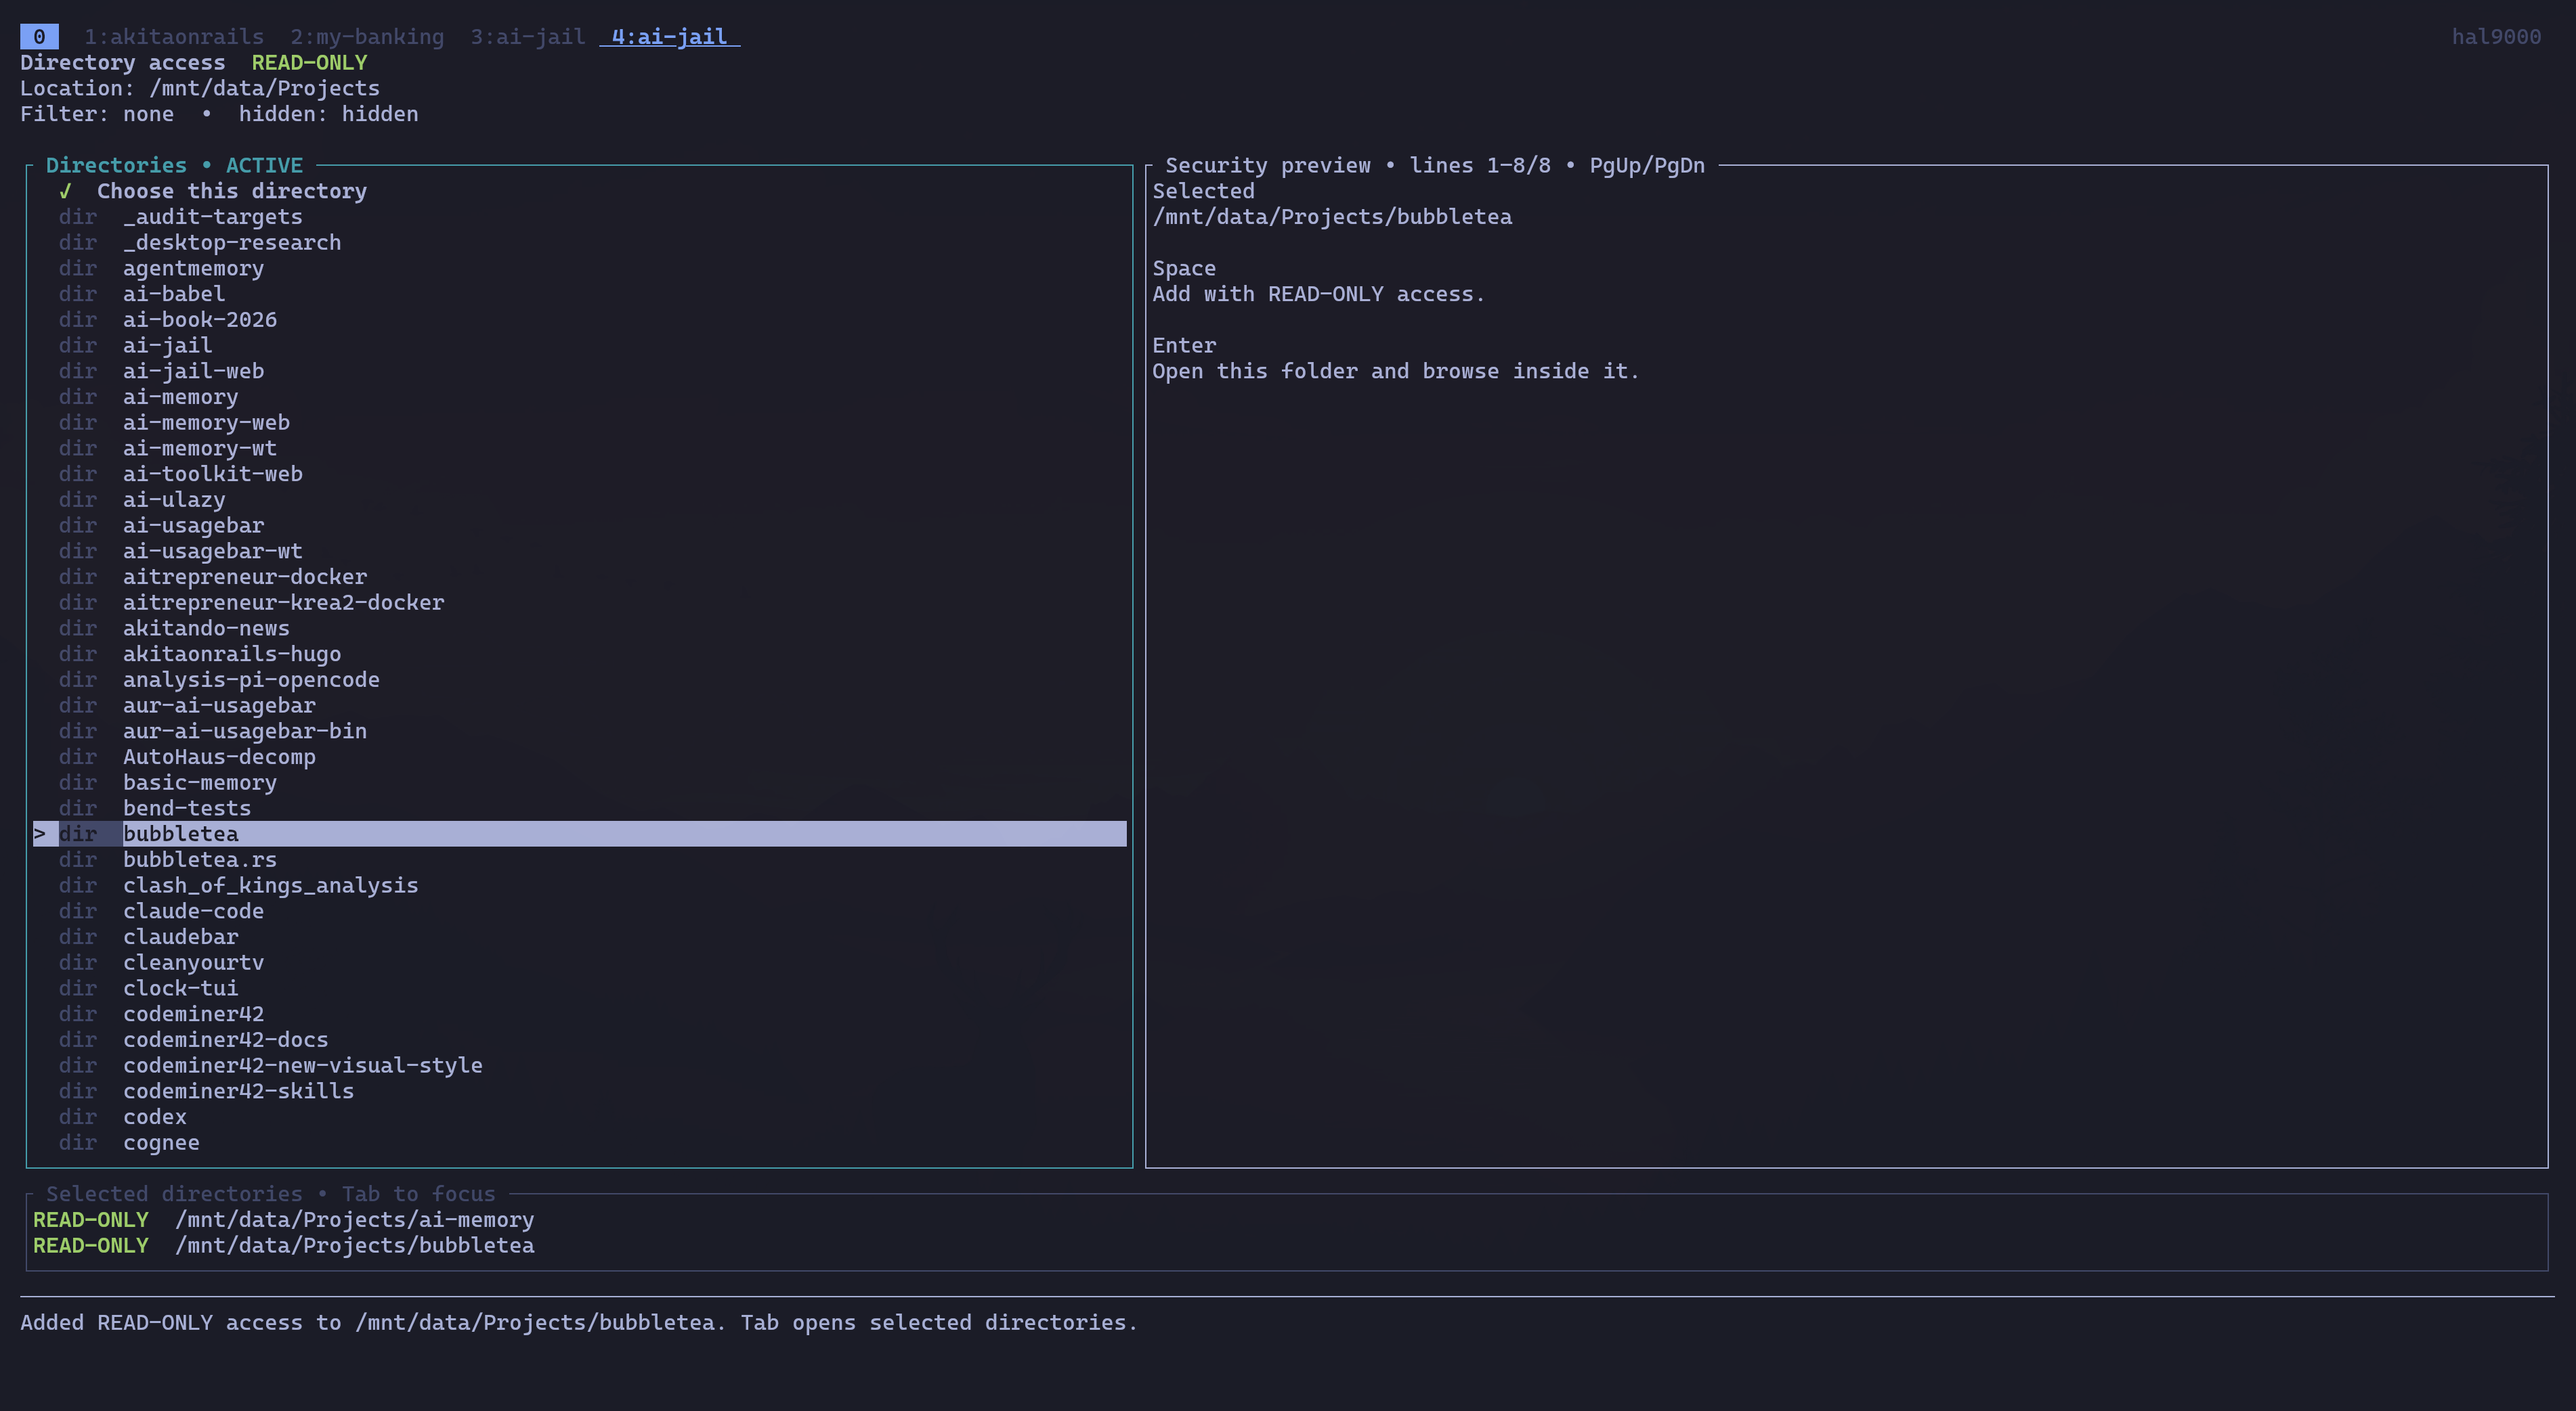
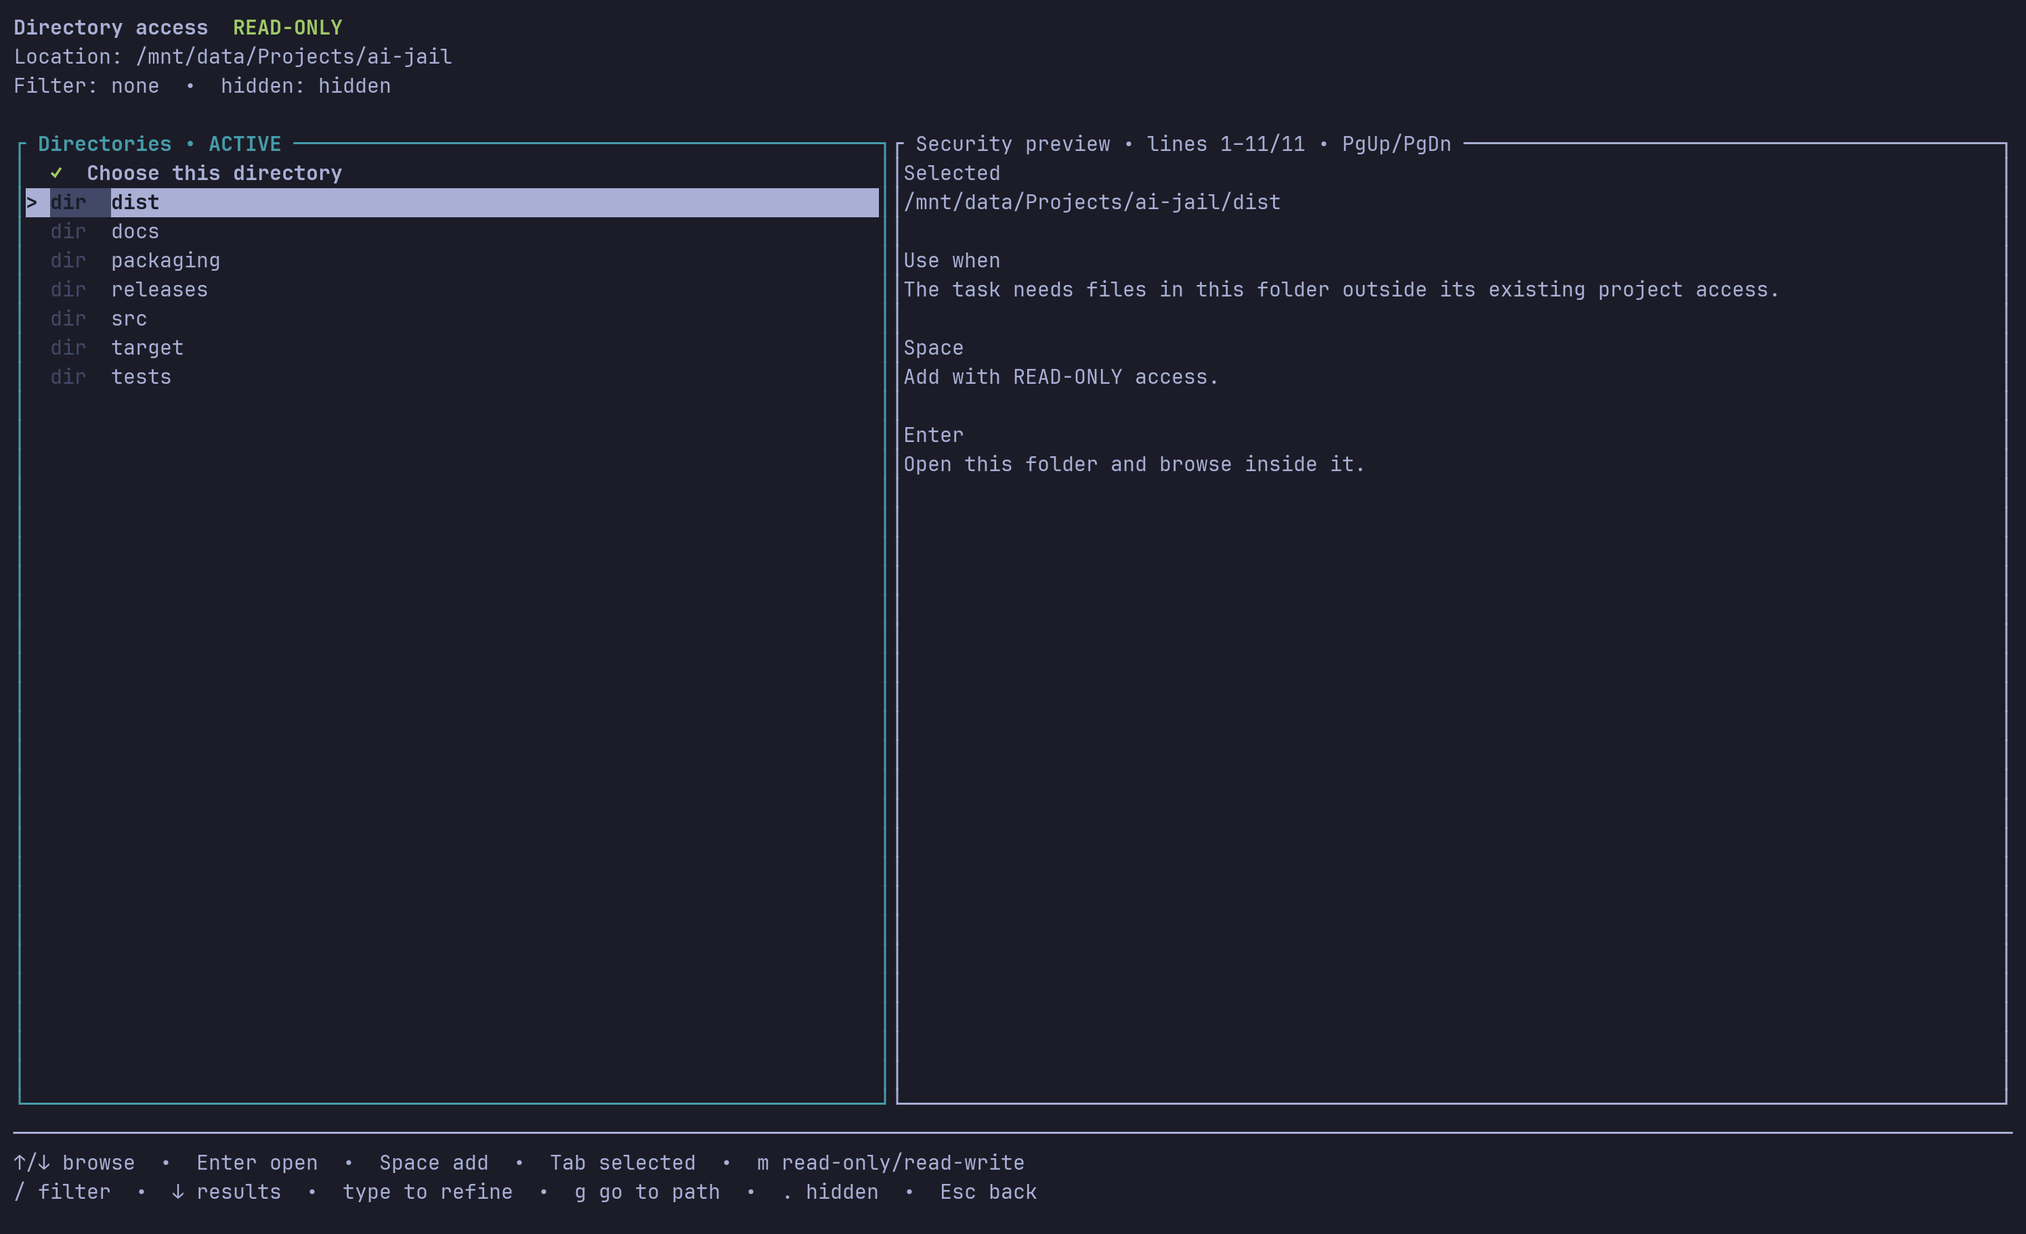
docs(readme): regenerate onboarding screenshots for the save-from-overview flow
Captured from the built binary at 164x42 in a private HOME/XDG and rendered
offline, so the images show the real UI without depending on a terminal theme.
The environment shot uses synthetic variable names: the selector never reads or
shows a value, and a screenshot must not leak this machine's environment.

diff --git a/releases/v3.2.0.md b/releases/v3.2.0.md
@@ -41,7 +41,9 @@ unchanged.
   process working directory now hold the crate-wide env lock.
 - `docs/TUI_DESIGN.md` records why a one-off unsaved launch is fallback-only,
   and the security model, user guide, and CLI/TUI parity inventory match the
-  new flow.
+  new flow. The README screenshots were regenerated from the current UI, so
+  the overview, environment selector, and directory browser show what a first
+  run actually draws.
 
 See the [onboarding guide](../docs/USER_GUIDE.md) for complete walkthroughs and
 the [CLI/TUI parity contract](../docs/CLI_TUI_PARITY.md) for the maintained
